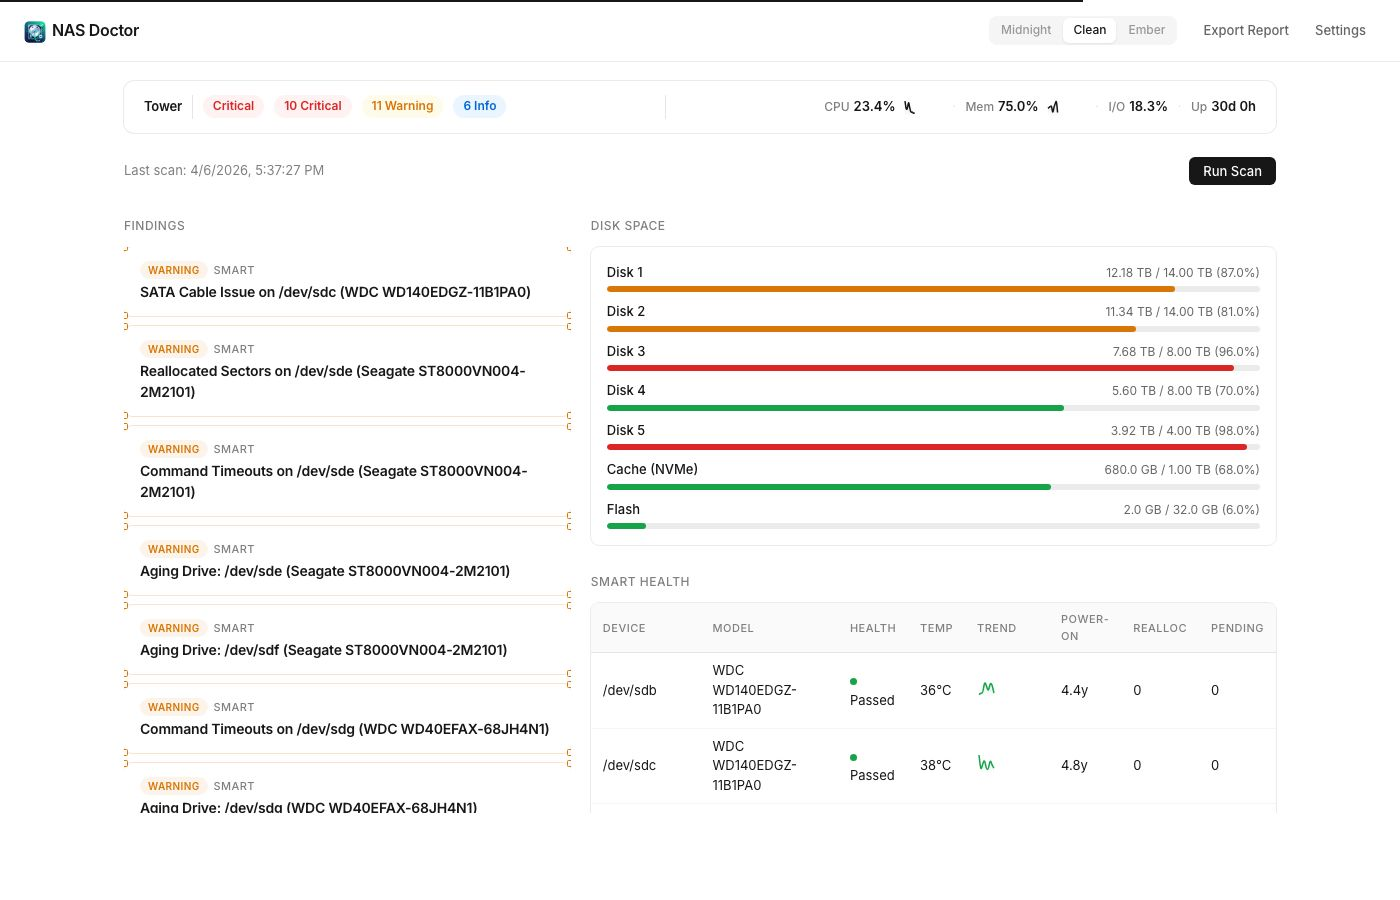
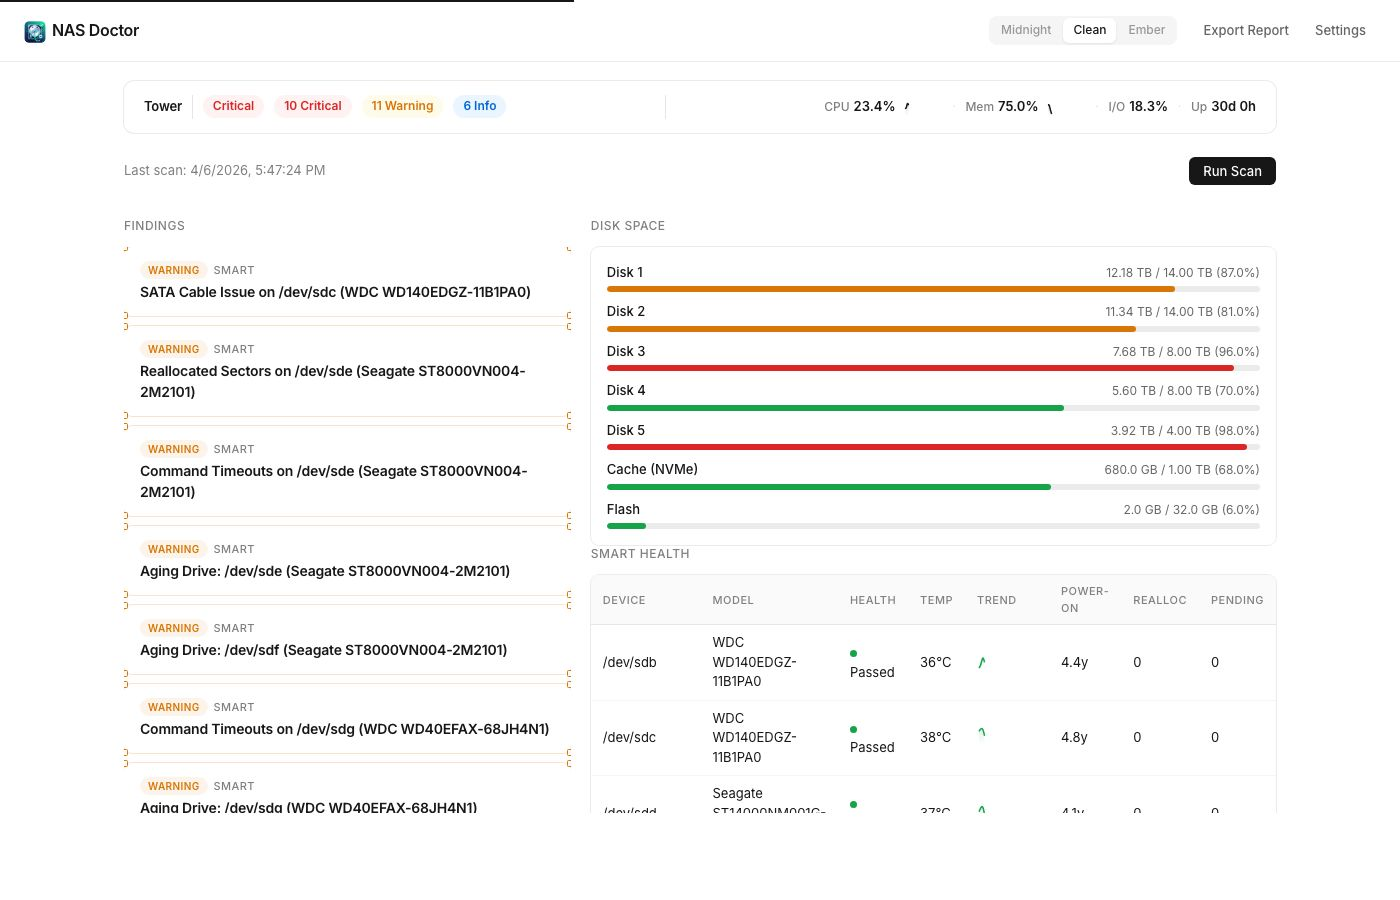
Auto-distribute dashboard sections across 2 columns for balanced height
All 3 themes now use a greedy bin-packing algorithm to distribute
sections (Findings, Disk Space, SMART, Docker, ZFS) across the two
dashboard columns. Instead of hardcoded left=findings / right=everything-else,
sections are rendered into a hidden staging area, measured, then assigned
to whichever column is currently shorter.

Implementation:
- Sections rendered as <div class='section-block'> inside a hidden
  staging div (position:absolute, visibility:hidden, width:50%)
- After innerHTML is set, distributeSections() measures each block's
  offsetHeight and greedily assigns to the shorter column
- Staging div is removed after distribution
- Works regardless of how many sections exist or their heights

This ensures the page uses minimum vertical space — no more tall right
column with a short left column when ZFS pools are present.

Updated screenshots for all 3 themes.

diff --git a/internal/api/theme_ember.go b/internal/api/theme_ember.go
@@ -1183,10 +1183,15 @@ td.mono {
     html += "</div>";
 
     /* ---- Two-Column Grid ---- */
-    html += "<div class=\"two-col\">";
+    html += "<div class=\"two-col\" id=\"two-col\">";
+    html += "<div class=\"col-left\" id=\"col-left\"></div>";
+    html += "<div class=\"col-right\" id=\"col-right\"></div>";
+    html += "</div>";
 
-    /* ==== LEFT COLUMN: Findings ==== */
-    html += "<div class=\"col-left\">";
+    html += "<div id=\"section-staging\" style=\"position:absolute;visibility:hidden;width:50%;left:-9999px\">";
+
+    /* ==== Section: Findings ==== */
+    html += "<div class=\"section-block\" data-section=\"findings\">";
     html += "<div class=\"section\" style=\"margin-top:0\">";
     html += "<div class=\"section-title\">Findings</div>";
     if (snapshot && snapshot.findings && snapshot.findings.length > 0) {
@@ -1254,12 +1259,10 @@ td.mono {
       html += "<div class=\"card-static\"><div class=\"empty-state\">No findings to display. Run a scan to check your system.</div></div>";
     }
     html += "</div>"; /* .section */
-    html += "</div>"; /* .col-left */
+    html += "</div>"; /* section-block findings */
 
-    /* ==== RIGHT COLUMN: System Details ==== */
-    html += "<div class=\"col-right\">";
-
-    /* ---- Disk Space ---- */
+    /* ==== Section: Disk Space ==== */
+    html += "<div class=\"section-block\" data-section=\"disk-space\">";
     html += "<div class=\"section\" style=\"margin-top:0\">";
     html += "<div class=\"section-title\">Disk Space</div>";
     if (snapshot && snapshot.disks && snapshot.disks.length > 0) {
@@ -1284,9 +1287,11 @@ td.mono {
     } else {
       html += "<div class=\"card-static\"><div class=\"empty-state\">No disk data available.</div></div>";
     }
-    html += "</div>";
+    html += "</div>"; /* section */
+    html += "</div>"; /* section-block disk-space */
 
-    /* ---- SMART Health ---- */
+    /* ==== Section: SMART Health ==== */
+    html += "<div class=\"section-block\" data-section=\"smart\">";
     html += "<div class=\"section\" style=\"margin-top:0\">";
     html += "<div class=\"section-title\">SMART Health</div>";
     if (snapshot && snapshot.smart && snapshot.smart.length > 0) {
@@ -1317,9 +1322,11 @@ td.mono {
     } else {
       html += "<div class=\"card-static\"><div class=\"empty-state\">No SMART data available.</div></div>";
     }
-    html += "</div>";
+    html += "</div>"; /* section */
+    html += "</div>"; /* section-block smart */
 
-    /* ---- Docker Containers ---- */
+    /* ==== Section: Docker ==== */
+    html += "<div class=\"section-block\" data-section=\"docker\">";
     html += "<div class=\"section\" style=\"margin-top:0\">";
     html += "<div class=\"section-title\">Docker</div>";
     if (snapshot && snapshot.docker && snapshot.docker.available && snapshot.docker.containers && snapshot.docker.containers.length > 0) {
@@ -1344,9 +1351,11 @@ td.mono {
     } else {
       html += "<div class=\"card-static\"><div class=\"empty-state\">No Docker containers found.</div></div>";
     }
-    html += "</div>";
+    html += "</div>"; /* section */
+    html += "</div>"; /* section-block docker */
 
-    /* ---- ZFS Pools ---- */
+    /* ==== Section: ZFS Pools ==== */
+    html += "<div class=\"section-block\" data-section=\"zfs\">";
     if (snapshot && snapshot.zfs && snapshot.zfs.available && snapshot.zfs.pools && snapshot.zfs.pools.length > 0) {
       html += "<div class=\"section\" style=\"margin-top:0\">";
       html += "<div class=\"section-title\">ZFS Pools</div>";
@@ -1386,8 +1395,8 @@ td.mono {
       html += "</div>";
     }
 
-    html += "</div>"; /* .col-right */
-    html += "</div>"; /* .two-col */
+    html += "</div>"; /* section-block zfs */
+    html += "</div>"; /* section-staging */
 
     /* ---- Footer ---- */
     html += "<div class=\"section\">";
@@ -1451,6 +1460,7 @@ td.mono {
       var app = document.getElementById("app");
       if (app) {
         app.innerHTML = renderDashboard(status, snapshot);
+        _distributeSections();
         _renderSparklines(snapshot);
         postRender(snapshot);
       }
@@ -1464,6 +1474,30 @@ td.mono {
         }
       }
     });
+  }
+
+  function _distributeSections() {
+    var staging = document.getElementById("section-staging");
+    var colL = document.getElementById("col-left");
+    var colR = document.getElementById("col-right");
+    if (!staging || !colL || !colR) return;
+    var blocks = staging.querySelectorAll(".section-block");
+    if (blocks.length === 0) return;
+    var items = [];
+    for (var i = 0; i < blocks.length; i++) {
+      items.push({ el: blocks[i], h: blocks[i].offsetHeight });
+    }
+    var leftH = 0, rightH = 0;
+    for (var j = 0; j < items.length; j++) {
+      if (leftH <= rightH) {
+        colL.appendChild(items[j].el);
+        leftH += items[j].h;
+      } else {
+        colR.appendChild(items[j].el);
+        rightH += items[j].h;
+      }
+    }
+    staging.parentNode.removeChild(staging);
   }
 
   function _renderSparklines(snapshot) {

diff --git a/internal/api/theme_clean.go b/internal/api/theme_clean.go
@@ -841,10 +841,15 @@ body {
     html += '</div>';
 
     // ---- Two-column grid ----
-    html += '<div class="two-col">';
+    html += '<div class="two-col" id="two-col">';
+    html += '<div class="col-left" id="col-left"></div>';
+    html += '<div class="col-right" id="col-right"></div>';
+    html += '</div>';
 
-    // ==== LEFT COLUMN: Findings ====
-    html += '<div class="col-left">';
+    html += '<div id="section-staging" style="position:absolute;visibility:hidden;width:50%;left:-9999px">';
+
+    // ==== Section: Findings ====
+    html += '<div class="section-block" data-section="findings">';
     html += '<div class="section">';
     html += '<div class="section-title">Findings</div>';
     if (snapshot && snapshot.findings && snapshot.findings.length > 0) {
@@ -891,12 +896,10 @@ body {
       html += '<div class="card"><div class="empty-state">No findings to display. Run a scan to check your system.</div></div>';
     }
     html += '</div>';
-    html += '</div>';
+    html += '</div>'; // end section-block findings
 
-    // ==== RIGHT COLUMN: Disk Space + SMART + Docker ====
-    html += '<div class="col-right">';
-
-    // ---- Disk space ----
+    // ==== Section: Disk Space ====
+    html += '<div class="section-block" data-section="disk-space">';
     html += '<div class="section">';
     html += '<div class="section-title">Disk Space</div>';
     if (snapshot && snapshot.disks && snapshot.disks.length > 0) {
@@ -919,9 +922,11 @@ body {
     } else {
       html += '<div class="card"><div class="empty-state">No disk data available.</div></div>';
     }
-    html += '</div>';
+    html += '</div>'; // end section
+    html += '</div>'; // end section-block disk-space
 
-    // ---- SMART health ----
+    // ==== Section: SMART Health ====
+    html += '<div class="section-block" data-section="smart">';
     html += '<div class="section">';
     html += '<div class="section-title">SMART Health</div>';
     if (snapshot && snapshot.smart && snapshot.smart.length > 0) {
@@ -953,9 +958,11 @@ body {
     } else {
       html += '<div class="card"><div class="empty-state">No SMART data available.</div></div>';
     }
-    html += '</div>';
+    html += '</div>'; // end section
+    html += '</div>'; // end section-block smart
 
-    // ---- Docker containers ----
+    // ==== Section: Docker ====
+    html += '<div class="section-block" data-section="docker">';
     html += '<div class="section">';
     html += '<div class="section-title">Docker Containers</div>';
     if (snapshot && snapshot.docker && snapshot.docker.available && snapshot.docker.containers && snapshot.docker.containers.length > 0) {
@@ -982,9 +989,11 @@ body {
     } else {
       html += '<div class="card"><div class="empty-state">No Docker containers found or Docker not available.</div></div>';
     }
-    html += '</div>';
+    html += '</div>'; // end section
+    html += '</div>'; // end section-block docker
 
-    // ---- ZFS Pools ----
+    // ==== Section: ZFS Pools ====
+    html += '<div class="section-block" data-section="zfs">';
     if (snapshot && snapshot.zfs && snapshot.zfs.available && snapshot.zfs.pools && snapshot.zfs.pools.length > 0) {
       html += '<div class="section">';
       html += '<div class="section-title">ZFS Pools</div>';
@@ -1022,9 +1031,8 @@ body {
       html += '</div>';
     }
 
-    html += '</div>'; // end col-right
-
-    html += '</div>'; // end two-col
+    html += '</div>'; // end section-block zfs
+    html += '</div>'; // end section-staging
 
     return html;
   }
@@ -1058,6 +1066,7 @@ body {
       var app = document.getElementById("app");
       if (app) {
         app.innerHTML = renderDashboard(status, snapshot);
+        _distributeSections();
         _renderSparklines(snapshot);
       }
     }).catch(function(err) {
@@ -1073,6 +1082,30 @@ body {
       }
       console.error("Failed to load dashboard data:", err);
     });
+  }
+
+  function _distributeSections() {
+    var staging = document.getElementById("section-staging");
+    var colL = document.getElementById("col-left");
+    var colR = document.getElementById("col-right");
+    if (!staging || !colL || !colR) return;
+    var blocks = staging.querySelectorAll(".section-block");
+    if (blocks.length === 0) return;
+    var items = [];
+    for (var i = 0; i < blocks.length; i++) {
+      items.push({ el: blocks[i], h: blocks[i].offsetHeight });
+    }
+    var leftH = 0, rightH = 0;
+    for (var j = 0; j < items.length; j++) {
+      if (leftH <= rightH) {
+        colL.appendChild(items[j].el);
+        leftH += items[j].h;
+      } else {
+        colR.appendChild(items[j].el);
+        rightH += items[j].h;
+      }
+    }
+    staging.parentNode.removeChild(staging);
   }
 
   function _renderSparklines(snapshot) {

diff --git a/internal/api/theme_midnight.go b/internal/api/theme_midnight.go
@@ -335,11 +335,17 @@ tbody tr:hover{background:rgba(255,255,255,0.03)}
     }
     h += '</div>';
 
-    // Two-column layout
-    h += '<div class="two-col fade-in">';
+    // Two-column layout — sections auto-distributed by height
+    h += '<div class="two-col fade-in" id="two-col">';
+    h += '<div class="col-left" id="col-left"></div>';
+    h += '<div class="col-right" id="col-right"></div>';
+    h += '</div>';
 
-    // ======= Left column: Findings =======
-    h += '<div class="col-left">';
+    // Hidden staging area for sections — JS will measure and distribute
+    h += '<div id="section-staging" style="position:absolute;visibility:hidden;width:50%;left:-9999px">';
+
+    // ======= Section: Findings =======
+    h += '<div class="section-block" data-section="findings">';
     var findings = sn ? (sn.findings || []) : [];
     h += '<div class="section-title">Findings (' + findings.length + ')</div>';
     if (findings.length === 0) {
@@ -380,10 +386,10 @@ tbody tr:hover{background:rgba(255,255,255,0.03)}
       }
       h += '</div>';
     }
-    h += '</div>';
+    h += '</div>'; // end section-block findings
 
-    // ======= Right column: System Details =======
-    h += '<div class="col-right">';
+    // ======= Section: Disk Space =======
+    h += '<div class="section-block" data-section="disk-space">';
 
     // Disk Space
     var disks = sn ? (sn.disks || []) : [];
@@ -406,7 +412,10 @@ tbody tr:hover{background:rgba(255,255,255,0.03)}
       h += '</div>';
     }
 
-    // SMART Health
+    h += '</div>'; // end section-block disk-space
+
+    // ======= Section: SMART Health =======
+    h += '<div class="section-block" data-section="smart">';
     var smart = sn ? (sn.smart || []) : [];
     if (smart.length > 0) {
       h += '<div>';
@@ -439,7 +448,10 @@ tbody tr:hover{background:rgba(255,255,255,0.03)}
       h += '</div>';
     }
 
-    // Docker Containers
+    h += '</div>'; // end section-block smart
+
+    // ======= Section: Docker =======
+    h += '<div class="section-block" data-section="docker">';
     var docker = sn ? sn.docker : null;
     if (docker && docker.available && docker.containers && docker.containers.length > 0) {
       var containers = docker.containers;
@@ -465,7 +477,10 @@ tbody tr:hover{background:rgba(255,255,255,0.03)}
       h += '</div>';
     }
 
-    // ZFS Pools
+    h += '</div>'; // end section-block docker
+
+    // ======= Section: ZFS Pools =======
+    h += '<div class="section-block" data-section="zfs">';
     var zfs = sn ? sn.zfs : null;
     if (zfs && zfs.available && zfs.pools && zfs.pools.length > 0) {
       h += '<div>';
@@ -510,8 +525,8 @@ tbody tr:hover{background:rgba(255,255,255,0.03)}
       h += '</div>';
     }
 
-    h += '</div>'; // end col-right
-    h += '</div>'; // end two-col
+    h += '</div>'; // end section-block zfs
+    h += '</div>'; // end section-staging
 
     // Footer
     h += '<div style="text-align:center;padding:' + 'calc(var(--sp)*4) 0;color:var(--text-quaternary);font-size:12px" class="fade-in">';
@@ -519,6 +534,9 @@ tbody tr:hover{background:rgba(255,255,255,0.03)}
     h += '</div>';
 
     document.getElementById("app").innerHTML = h;
+
+    // Auto-distribute sections across two columns for balanced height
+    distributeSections();
 
     // Render sparklines after DOM is updated
     renderSparklines();
@@ -556,6 +574,37 @@ tbody tr:hover{background:rgba(255,255,255,0.03)}
         }
       })
       .catch(function() {});
+  }
+
+  function distributeSections() {
+    var staging = document.getElementById("section-staging");
+    var colL = document.getElementById("col-left");
+    var colR = document.getElementById("col-right");
+    if (!staging || !colL || !colR) return;
+
+    var blocks = staging.querySelectorAll(".section-block");
+    if (blocks.length === 0) return;
+
+    // Measure heights while in staging (which has width:50% to simulate column width)
+    var items = [];
+    for (var i = 0; i < blocks.length; i++) {
+      items.push({ el: blocks[i], h: blocks[i].offsetHeight });
+    }
+
+    // Greedy bin-packing: assign each section to the shorter column
+    var leftH = 0, rightH = 0;
+    for (var j = 0; j < items.length; j++) {
+      if (leftH <= rightH) {
+        colL.appendChild(items[j].el);
+        leftH += items[j].h;
+      } else {
+        colR.appendChild(items[j].el);
+        rightH += items[j].h;
+      }
+    }
+
+    // Remove staging div
+    staging.parentNode.removeChild(staging);
   }
 
   window._toggleFinding = function(el) {
